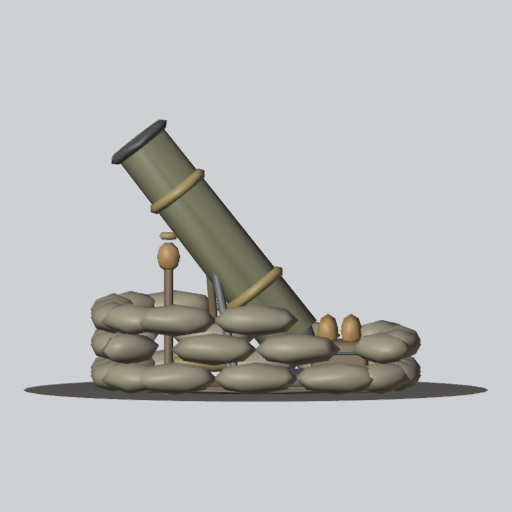
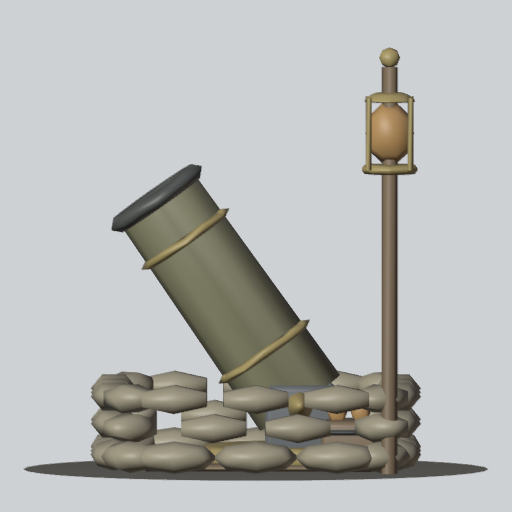
art: Grenadier bolder upgrades - S1 a twin-mortar battery behind a deeper bag wall, S2 one huge brass-banded siege mortar with a glowing bore and a spotter's mast lantern (#443)

Changed region(s): [[0.0312, 0.0938, 0.9688, 0.9375]]

diff --git a/tools/art/models/tower/_grenadier.py b/tools/art/models/tower/_grenadier.py
@@ -3,10 +3,11 @@ a steel base plate, angled up at the front. Authored from the base (y 0) in Robl
 front = -Z (_kit conventions).
 
 Stage 0 (tiers 0-2): two courses of sandbags, base plate, tube on a bipod, two shells.
-Stage 1 (tier 3):    a third course on the front half, a fatter tube with steel bands and a
-                     sight, an ammo crate of shells, a shovel stuck in the bags.
-Stage 2 (tier 5):    a plank floor, brass bands and a brass sight dial on the tube, glowing
-                     shells in the crate, a pile of brass casings, a lantern on a stake.
+Stage 1 (tier 3):    a third course of sandbags all round, a battery of TWO fat steel-banded
+                     mortars on one long plate, an ammo crate of shells.
+Stage 2 (tier 5):    one huge siege mortar on a brass-ringed turntable (brass bands, a glowing
+                     bore), a tall spotter's mast at the back-left with a glowing brass
+                     crow's-nest lantern and pennant, a plank floor, glowing shells.
 """
 
 import importlib.util
@@ -20,9 +21,10 @@ _spec.loader.exec_module(K)
 OLIVE = (120, 115, 70)  # TowerLook.COLORS.GRENADIER
 BAG_H = 0.28
 RING = 1.22  # sandbag ring centre line, half width
+CHEAP = {"segments": 6, "rings": 3}  # the upper courses' bags (~24 triangles each)
 
 
-def course(level, front_only=False):
+def course(level, front_only=False, cheap=False):
     """One course of sandbags round the pit (staggered every other course)."""
     y = BAG_H / 2 + level * (BAG_H - 0.03)
     out = []
@@ -39,81 +41,101 @@ def course(level, front_only=False):
                 x, z, yaw = sx * RING, u, 90 + (i % 2) * 6 - 3
             else:
                 x, z, yaw = u, sz * RING, (i % 2) * 6 - 3
-            out.append(K.pillow((x, y, z), 0.74, yaw=yaw))
+            out.append(K.pillow((x, y, z), 0.74, yaw=yaw, **CHEAP) if cheap else K.pillow((x, y, z), 0.74, yaw=yaw))
     for cx in (-1, 1):
         for cz in (-1, 1):
             if front_only and cz > 0:
                 continue
-            out.append(K.pillow((cx * 1.08, y, cz * 1.08), 0.6, yaw=45 * cx * cz + (90 if level % 2 else 0)))
+            yaw = 45 * cx * cz + (90 if level % 2 else 0)
+            out.append(K.pillow((cx * 1.08, y, cz * 1.08), 0.6, yaw=yaw, **CHEAP) if cheap else K.pillow((cx * 1.08, y, cz * 1.08), 0.6, yaw=yaw))
     return out
+
+
+def tube(k, pivot, el_deg, length, r, group="body"):
+    """A mortar tube from pivot, elevated toward the front; returns (tip, direction)."""
+    el = math.radians(el_deg)
+    d = (0, math.sin(el), -math.cos(el))
+    tip = tuple(p + q * length for p, q in zip(pivot, d))
+    k.add(group, K.rod(pivot, tip, r, 12, top=0.92))
+    return tip, d
 
 
 def build(lp, stage):
     k = K.Kit(lp)
 
-    bags = course(0) + course(1)
-    if stage >= 1:
-        bags += course(2, front_only=True)
+    bags = course(0) + course(1, cheap=stage >= 1)
+    if stage >= 1:  # a third course all round: a deeper pit
+        bags += course(2, cheap=True)
     k.add("sand", *bags)
-    k.add("dirt", K.cyl((0, 0.02, 0), (1.12, 1.12), 0.04, 16, bevel=0.0))  # the pit floor
-
-    # base plate and the tube, angled up at the front; the tube's mouth is the firing point
-    pivot = (0, 0.42, 0.32)
-    el = math.radians(52)
-    length = 2.0 if stage == 0 else 2.15
-    d = (0, math.sin(el), -math.cos(el))
-    tip = tuple(p + q * length for p, q in zip(pivot, d))
-    r = 0.22 if stage == 0 else 0.26
-    k.add("metal", K.cyl((0, 0.07, 0.32), 0.58, 0.14, 14, bevel=0.04),
-          K.ell(pivot, (0.2, 0.2, 0.2), 8, 5))
-    k.add("body", K.rod(pivot, tip, r, 12, top=0.92))
-    k.add("dark", K.ring_along(tip, tuple(t + q for t, q in zip(tip, d)), r * 0.92 + 0.02, 0.045, 12, 4),
-          piece="muzzle", role="muzzle")
-    # bipod from the tube's middle to the plate's front
-    mid = K.along(pivot, tip, 0.55)
-    k.add("metal", *[K.rod(mid, (sx * 0.42, 0.12, -0.18), 0.04, 6) for sx in (-1, 1)],
-          K.rod((-0.42, 0.12, -0.18), (0.42, 0.12, -0.18), 0.035, 6))
-
-    shells = []
-    if stage == 0:  # two shells lying by the plate
-        for x, z in ((-0.62, 0.68), (-0.38, 0.8)):
-            shells.append(K.rod((x, 0.1, z - 0.22), (x, 0.1, z + 0.18), 0.1, 8))
-        k.add("body", *shells)
-        k.add("dark", *[K.rod((x, 0.1, z - 0.22), (x, 0.1, z - 0.34), 0.08, 8, top=0.3) for x, z in ((-0.62, 0.68), (-0.38, 0.8))])
+    if stage < 2:  # (stage 2 lays planks over it)
+        k.add("dirt", K.cyl((0, 0.02, 0), (1.12, 1.12), 0.04, 16, bevel=0.0))  # the pit floor
 
     brass = []
-    if stage >= 1:
-        # steel (stage 1) or brass (stage 2) bands on the tube, a sight block
-        bands = [K.ring_along(K.along(pivot, tip, t), tip, r * (1 - 0.08 * t), 0.05, 12, 5) for t in (0.25, 0.75)]
-        (brass if stage >= 2 else shells).extend(bands)
-        sight_at = tuple(p + q for p, q in zip(K.along(pivot, tip, 0.3), (0.3, 0.0, 0.0)))
-        sight = K.rbox(sight_at, (0.16, 0.22, 0.2), bevel=0.04)
-        (brass if stage >= 2 else shells).append(sight)
-        if stage >= 2:
-            brass.append(K.cyl((0.4, sight_at[1] + 0.05, sight_at[2]), 0.1, 0.05, 10, rot=(0, 0, 90)))  # dial
-        if shells:
-            k.add("metal", *shells)
-        # ammo crate at the back-left with shells standing in it
-        crate = (-0.6, 0.22, 0.72)
-        k.add("wood", K.rbox(crate, (0.66, 0.44, 0.5), bevel=0.05))
-        k.add("dark", *[K.rbox((crate[0], crate[1] + dy, crate[2]), (0.68, 0.05, 0.52), bevel=0.02) for dy in (-0.12, 0.12)])
-        heads = [K.ell((crate[0] + dx, crate[1] + 0.3, crate[2] + dz), (0.09, 0.14, 0.09), 6, 4)
-                 for dx in (-0.16, 0.0, 0.16) for dz in (-0.1, 0.1)]
-        k.add("glow" if stage >= 2 else "body", *heads, piece="shellheads")
-        # a shovel stuck in the bags at the right
-        k.add("wood", K.rod((1.18, 0.4, -0.35), (1.0, 1.25, -0.42), 0.035, 6))
-        k.add("metal", K.rbox((1.22, 0.33, -0.34), (0.06, 0.32, 0.24), bevel=0.03, rot=(0, 0, 12)))
+    if stage == 0:
+        # base plate and the tube, angled up at the front; the tube's mouth is the firing point
+        pivot = (0, 0.42, 0.32)
+        k.add("metal", K.cyl((0, 0.07, 0.32), 0.58, 0.14, 14, bevel=0.04), K.ell(pivot, (0.2, 0.2, 0.2), 8, 5))
+        tip, d = tube(k, pivot, 52, 2.0, 0.22)
+        r = 0.22
+        k.add("dark", K.ring_along(tip, tuple(t + q for t, q in zip(tip, d)), r * 0.92 + 0.02, 0.045, 12, 4),
+              piece="muzzle", role="muzzle")
+        # bipod from the tube's middle to the plate's front
+        mid = K.along(pivot, tip, 0.55)
+        k.add("metal", *[K.rod(mid, (sx * 0.42, 0.12, -0.18), 0.04, 6) for sx in (-1, 1)],
+              K.rod((-0.42, 0.12, -0.18), (0.42, 0.12, -0.18), 0.035, 6))
+        # two shells lying by the plate
+        k.add("body", *[K.rod((x, 0.1, z - 0.22), (x, 0.1, z + 0.18), 0.1, 8) for x, z in ((-0.62, 0.68), (-0.38, 0.8))])
+        k.add("dark", *[K.rod((x, 0.1, z - 0.22), (x, 0.1, z - 0.34), 0.08, 8, top=0.3) for x, z in ((-0.62, 0.68), (-0.38, 0.8))])
 
-    if stage >= 2:
+    elif stage == 1:
+        # a battery of two fat mortars side by side on one long plate, steel-banded
+        k.add("metal", K.rbox((0, 0.08, 0.3), (1.7, 0.14, 0.9), bevel=0.05))
+        tips = []
+        for i, x in enumerate((0.45, -0.45)):
+            pivot = (x, 0.44, 0.34)
+            k.add("metal", K.ell(pivot, (0.22, 0.22, 0.22), 6, 4))
+            tip, d = tube(k, pivot, 55, 2.0, 0.27)
+            tips.append((tip, d, pivot))
+            k.add("metal", *[K.ring_along(K.along(pivot, tip, t), tip, 0.27 * (1 - 0.08 * t), 0.05, 10, 3) for t in (0.3, 0.75)])
+            mid = K.along(pivot, tip, 0.5)
+            k.add("metal", *[K.rod(mid, (x + sx * 0.3, 0.14, -0.3), 0.04, 6) for sx in (-1, 1)])
+            ring = K.ring_along(tip, tuple(t + q for t, q in zip(tip, d)), 0.27 * 0.92 + 0.02, 0.05, 12, 4)
+            if i == 0:
+                k.add("dark", ring, piece="muzzle", role="muzzle")
+            else:
+                k.add("dark", ring)
+
+    else:
+        # one huge siege mortar on a brass-trimmed turntable, the crowning gun
+        pivot = (0, 0.55, 0.38)
+        k.add("brass", K.cyl((0, 0.1, 0.32), 0.82, 0.18, 14, bevel=0.05))
+        k.add("metal",
+              *[K.rbox((sx * 0.42, 0.42, 0.38), (0.16, 0.6, 0.6), bevel=0.05) for sx in (-1, 1)])  # cheeks
+        brass += [K.rod((-0.52, 0.55, 0.38), (0.52, 0.55, 0.38), 0.12, 8)]  # trunnion axle
+        tip, d = tube(k, pivot, 55, 2.15, 0.42)
+        brass += [K.ring_along(K.along(pivot, tip, t), tip, 0.42 * (1 - 0.08 * t) + 0.01, 0.06, 12, 3) for t in (0.25, 0.8)]
+        k.add("dark", K.ring_along(tip, tuple(t + q for t, q in zip(tip, d)), 0.42 * 0.92 + 0.03, 0.07, 14, 4),
+              piece="muzzle", role="muzzle")
+        k.add("glow", K.cyl(tuple(t + q * 0.01 for t, q in zip(tip, d)), 0.33, 0.06, 12, bevel=0.0, rot=(-35, 0, 0)), piece="bore")
+        # a tall spotter's mast at the back-left: crow's-nest lantern glowing, brass pennant pole top
+        mx, mz = -1.2, 1.15
+        k.add("wood", K.rod((mx, 0.0, mz), (mx, 3.5, mz), 0.07, 6))
+        brass += [K.cyl((mx, 2.62, mz), 0.25, 0.08, 8), K.cyl((mx, 3.24, mz), 0.25, 0.08, 8, top=0.6),
+                  *[K.rod((mx + dx, 2.62, mz + dz), (mx + dx, 3.24, mz + dz), 0.025, 4) for dx, dz in ((0.18, 0.18), (-0.18, -0.18), (0.18, -0.18), (-0.18, 0.18))],
+                  K.ell((mx, 3.58, mz), (0.09, 0.09, 0.09), 8, 4)]
+        k.add("glow", K.ell((mx, 2.93, mz), (0.21, 0.27, 0.21), 8, 5), piece="bore")
+        k.add("body", K.rbox((mx + 0.42, 3.3, mz), (0.68, 0.36, 0.04), bevel=0.0, taper=(1.0, 1.0), rot=(0, 0, 0)))  # pennant
         # plank floor in the pit
-        k.add("deck", *[K.rbox((x, 0.03, 0.05), (0.36, 0.05, 2.0), bevel=0.015) for x in (-0.76, -0.38, 0.0, 0.38, 0.76)])
-        # brass casings piled at the front-right
-        brass += [K.rod((x, 0.17 + dy, z - 0.15), (x + 0.04, 0.17 + dy, z + 0.15), 0.07, 8)
-                  for x, z, dy in ((0.55, -0.55, 0.0), (0.7, -0.4, 0.0), (0.62, -0.47, 0.13))]
-        # a lantern on a stake at the front-left corner
-        k.add("wood", K.rod((-1.1, 0.0, -0.75), (-1.1, 1.3, -0.75), 0.04, 6))
-        brass += [K.cyl((-1.1, 1.36, -0.75), 0.09, 0.06, 8)]
-        k.add("glow", K.ell((-1.1, 1.18, -0.75), (0.1, 0.13, 0.1), 8, 5))
+        k.add("deck", *[K.rbox((x, 0.03, 0.05), (0.36, 0.05, 2.0), bevel=0.0) for x in (-0.76, -0.38, 0.0, 0.38, 0.76)])
+
+    if stage >= 1:
+        # ammo crate at the back-left with shells standing in it (glowing at stage 2)
+        crate = (-0.62, 0.22, 0.8)
+        k.add("wood", K.rbox(crate, (0.66, 0.44, 0.48), bevel=0.05))
+        k.add("dark", *[K.rbox((crate[0], crate[1] + dy, crate[2]), (0.68, 0.05, 0.5), bevel=0.0) for dy in (-0.12, 0.12)])
+        heads = [K.ell((crate[0] + dx, crate[1] + 0.3, crate[2] + dz), (0.09, 0.14, 0.09), 6, 3)
+                 for dx in (-0.12, 0.12) for dz in (-0.1, 0.1)]
+        k.add("glow" if stage >= 2 else "body", *heads, piece="shellheads")
     if brass:
         k.add("brass", *brass)
 
